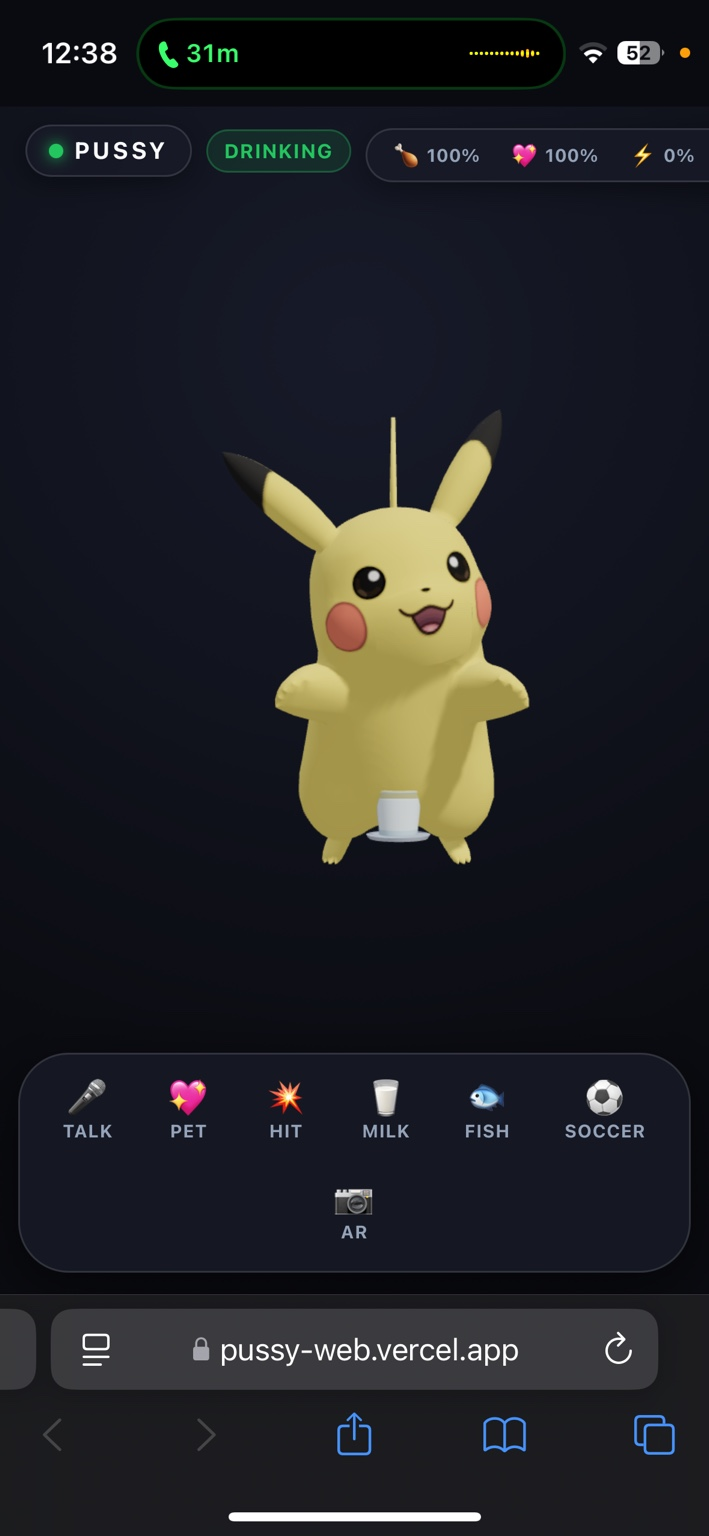
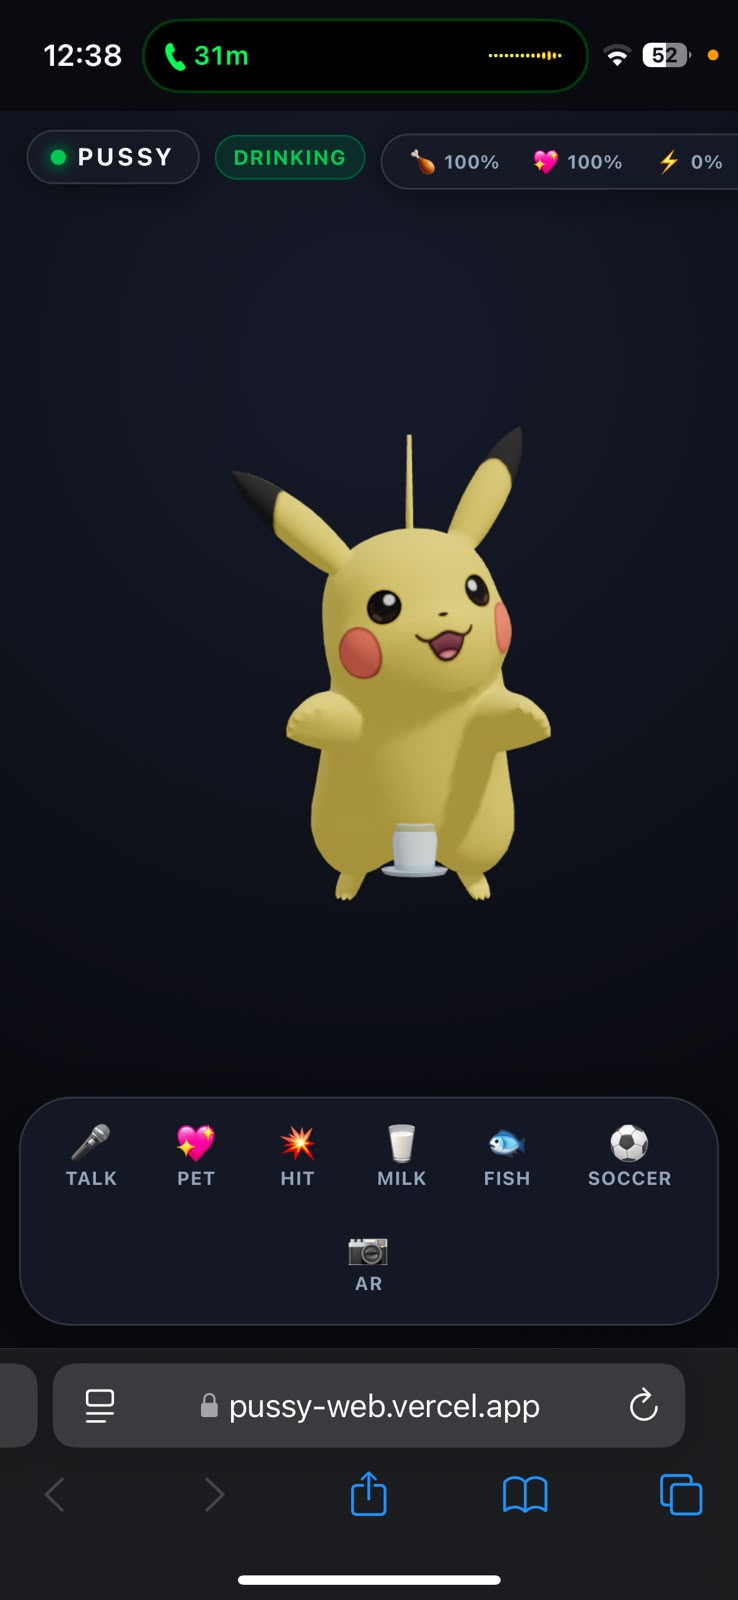
docs: curate privacy-safe README screenshots

diff --git a/README.md b/README.md
@@ -102,18 +102,29 @@ It combines:
 
 # 📸 Screenshots
 
-### 🐟 Normal Mode — Feeding
+> **Curated gallery:** the selected screenshots below were visually reviewed for the README and **no visible human faces are present**.
+
+### 🐾 Normal Virtual Pet
 
 <p align="center">
-  <img src="docs/screenshots/01-normal-fish.jpg" width="32%" alt="PUSSY Web normal mode with fish feeding">
-  <img src="docs/screenshots/02-normal-milk.jpg" width="32%" alt="PUSSY Web normal mode with milk feeding">
+  <img src="docs/screenshots/01-normal-idle.jpg" width="30%" alt="PUSSY Web normal idle mode">
+  <img src="docs/screenshots/02-normal-milk.jpg" width="30%" alt="PUSSY Web milk feeding">
+  <img src="docs/screenshots/03-normal-fish.jpg" width="30%" alt="PUSSY Web fish feeding">
 </p>
 
 ### 📷 Camera AR
 
 <p align="center">
-  <img src="docs/screenshots/03-ar-placement.jpg" width="32%" alt="PUSSY Web AR placement">
-  <img src="docs/screenshots/04-ar-interaction.jpg" width="32%" alt="PUSSY Web AR interaction">
+  <img src="docs/screenshots/04-ar-placement.jpg" width="30%" alt="PUSSY Web camera AR placement">
+  <img src="docs/screenshots/05-ar-talking.jpg" width="30%" alt="PUSSY Web AR talking and voice replay">
+  <img src="docs/screenshots/06-ar-listening.jpg" width="30%" alt="PUSSY Web AR listening mode">
+</p>
+
+### ⚽ AR Mini-Game + Feeding
+
+<p align="center">
+  <img src="docs/screenshots/07-ar-soccer.jpg" width="30%" alt="PUSSY Web AR soccer mini-game">
+  <img src="docs/screenshots/08-ar-eating.jpg" width="30%" alt="PUSSY Web AR fish feeding">
 </p>
 
 ---
